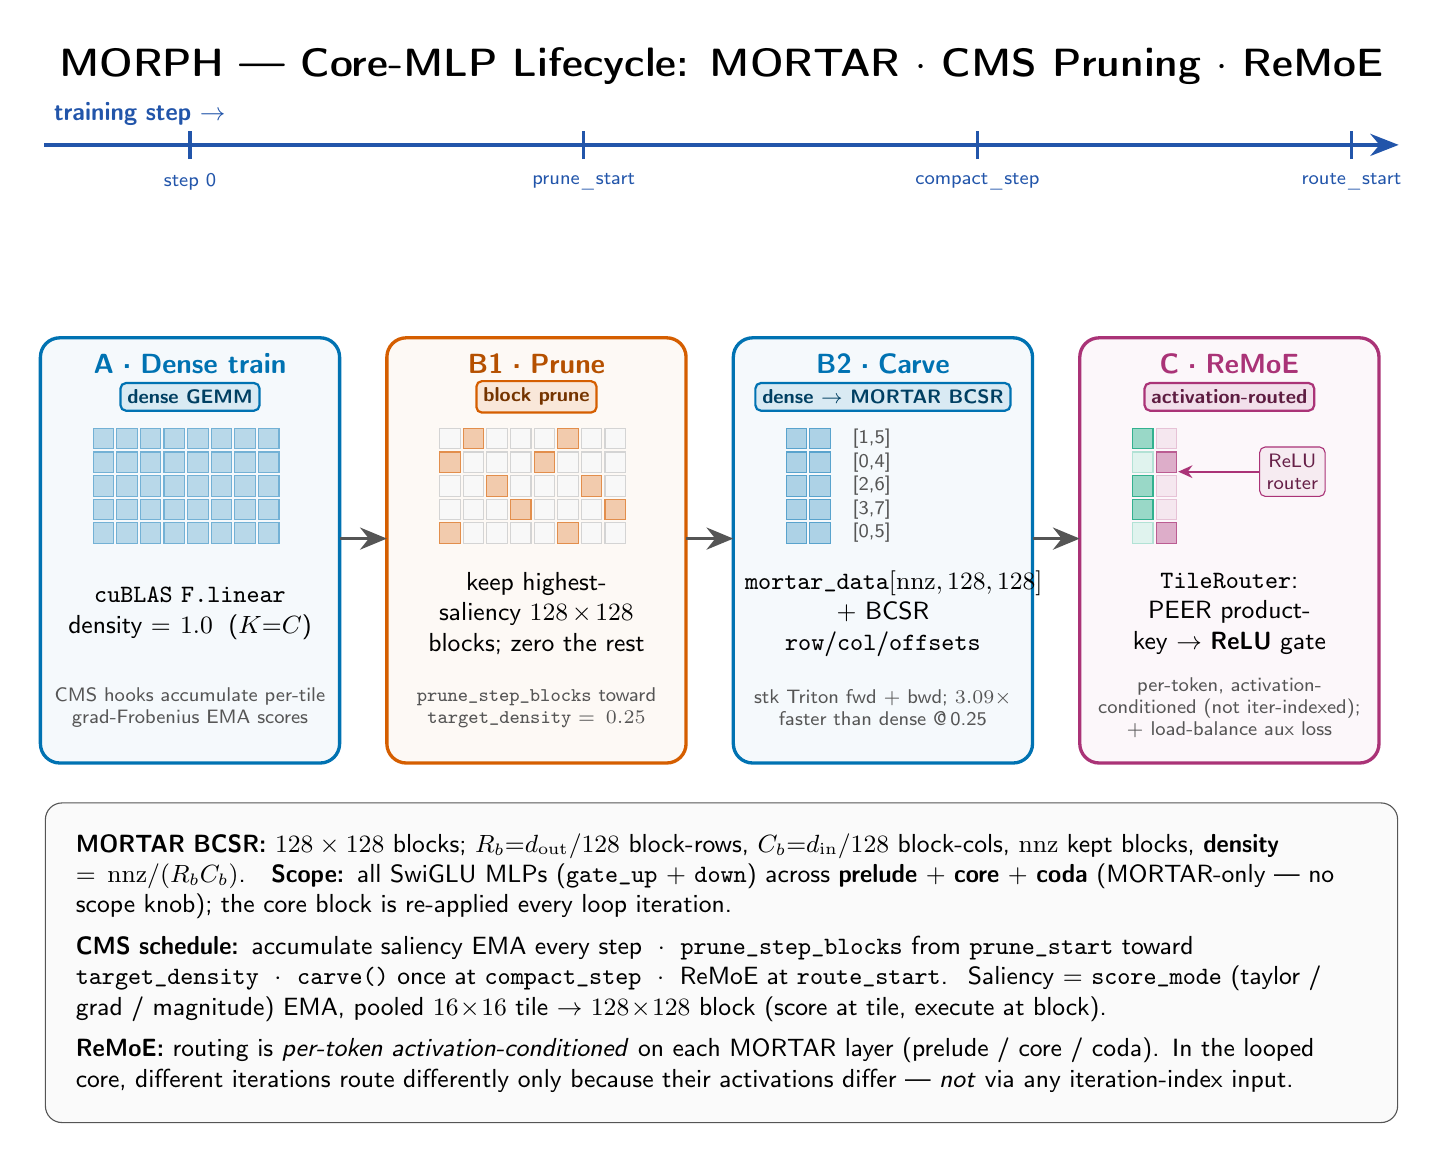
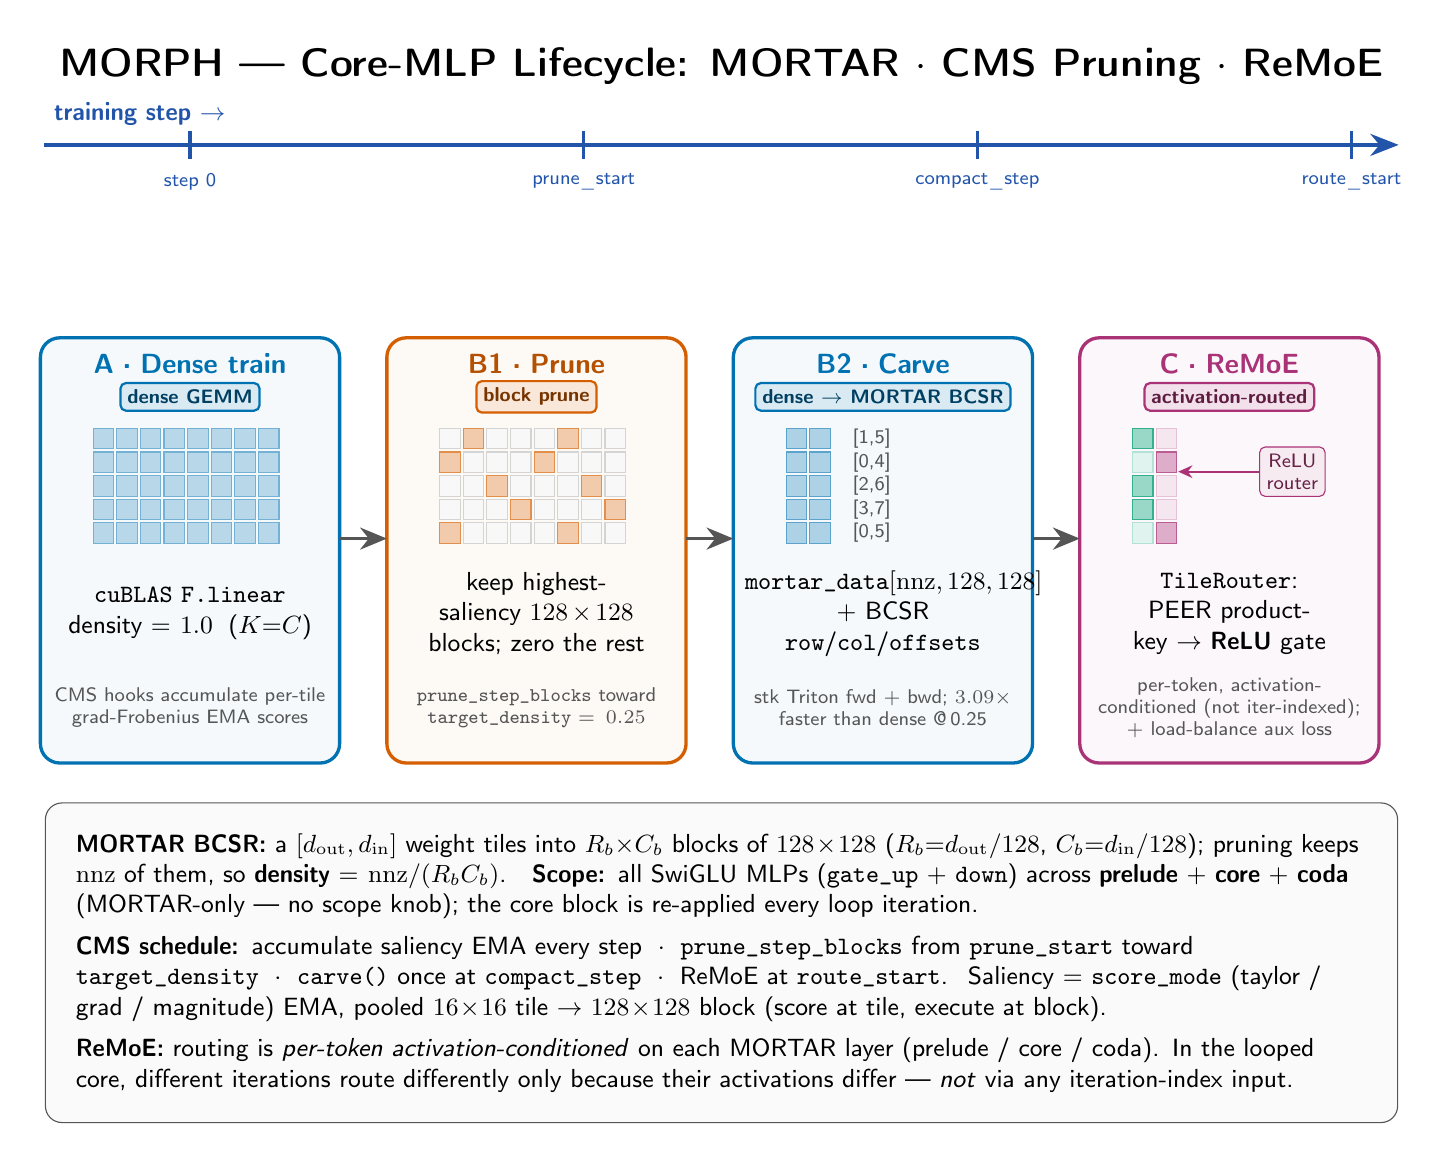
docs(figures): rewrite cms_lifecycle BCSR facts line as prose
The MORTAR BCSR definition was a comma-jammed appositive list with no verb
('Rb=... block-rows, Cb=... block-cols, nnz kept blocks, density=...'). Rewrote
as a sentence: a [d_out,d_in] weight tiles into Rb×Cb blocks of 128×128; pruning
keeps nnz of them, so density = nnz/(Rb·Cb).

Changed region(s): [[0.0621, 0.7126, 0.931, 0.8055]]

diff --git a/docs/figures/morph_cms_lifecycle.tex b/docs/figures/morph_cms_lifecycle.tex
@@ -151,8 +151,8 @@
 \node[draw=bdr, rounded corners=6pt, fill=fGray!25, inner sep=11pt,
       align=left, font=\small\sffamily, text width=16.4cm, anchor=north]
       (facts) at (8.4,-4.75) {%
-  \textbf{MORTAR BCSR:} $128\!\times\!128$ blocks; $R_b{=}d_{\mathrm{out}}/128$ block-rows, $C_b{=}d_{\mathrm{in}}/128$ block-cols,
-  $\mathrm{nnz}$ kept blocks, \textbf{density $=\mathrm{nnz}/(R_b C_b)$}.\quad
+  \textbf{MORTAR BCSR:} a $[d_{\mathrm{out}},d_{\mathrm{in}}]$ weight tiles into $R_b{\times}C_b$ blocks of $128\!\times\!128$
+  ($R_b{=}d_{\mathrm{out}}/128$, $C_b{=}d_{\mathrm{in}}/128$); pruning keeps $\mathrm{nnz}$ of them, so \textbf{density $=\mathrm{nnz}/(R_b C_b)$}.\quad
   \textbf{Scope:} all SwiGLU MLPs (\texttt{gate\_up} $+$ \texttt{down}) across \textbf{prelude $+$ core $+$ coda}
   (MORTAR-only --- no scope knob); the core block is re-applied every loop iteration.\\[4pt]
   \textbf{CMS schedule:} accumulate saliency EMA every step \;$\cdot$\; \texttt{prune\_step\_blocks} from \texttt{prune\_start} toward \texttt{target\_density}